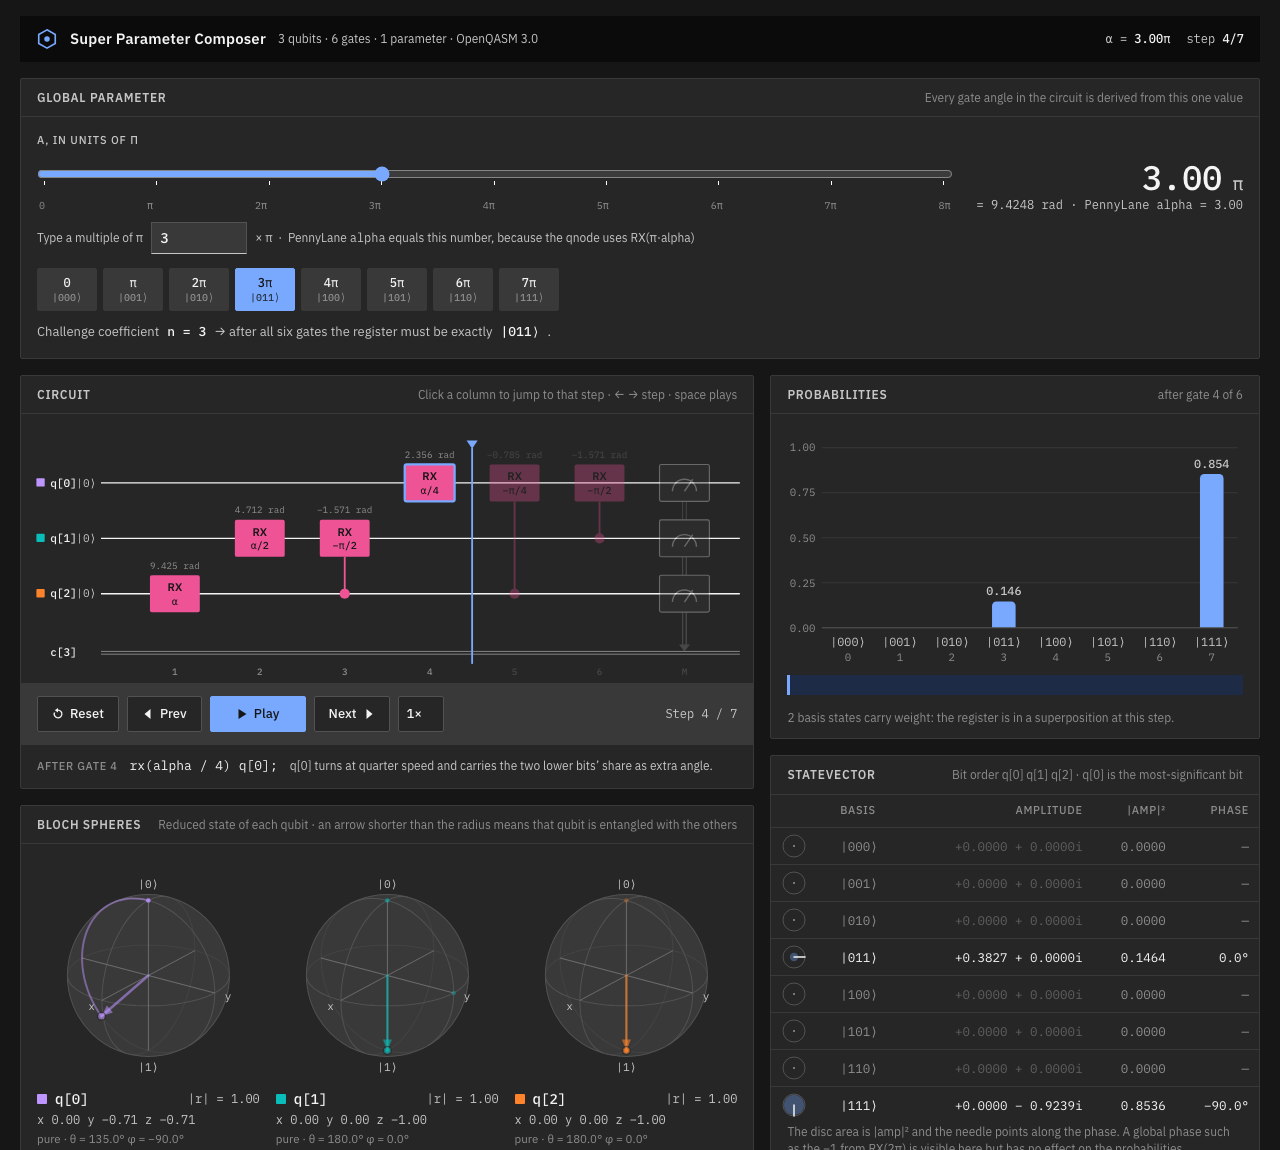
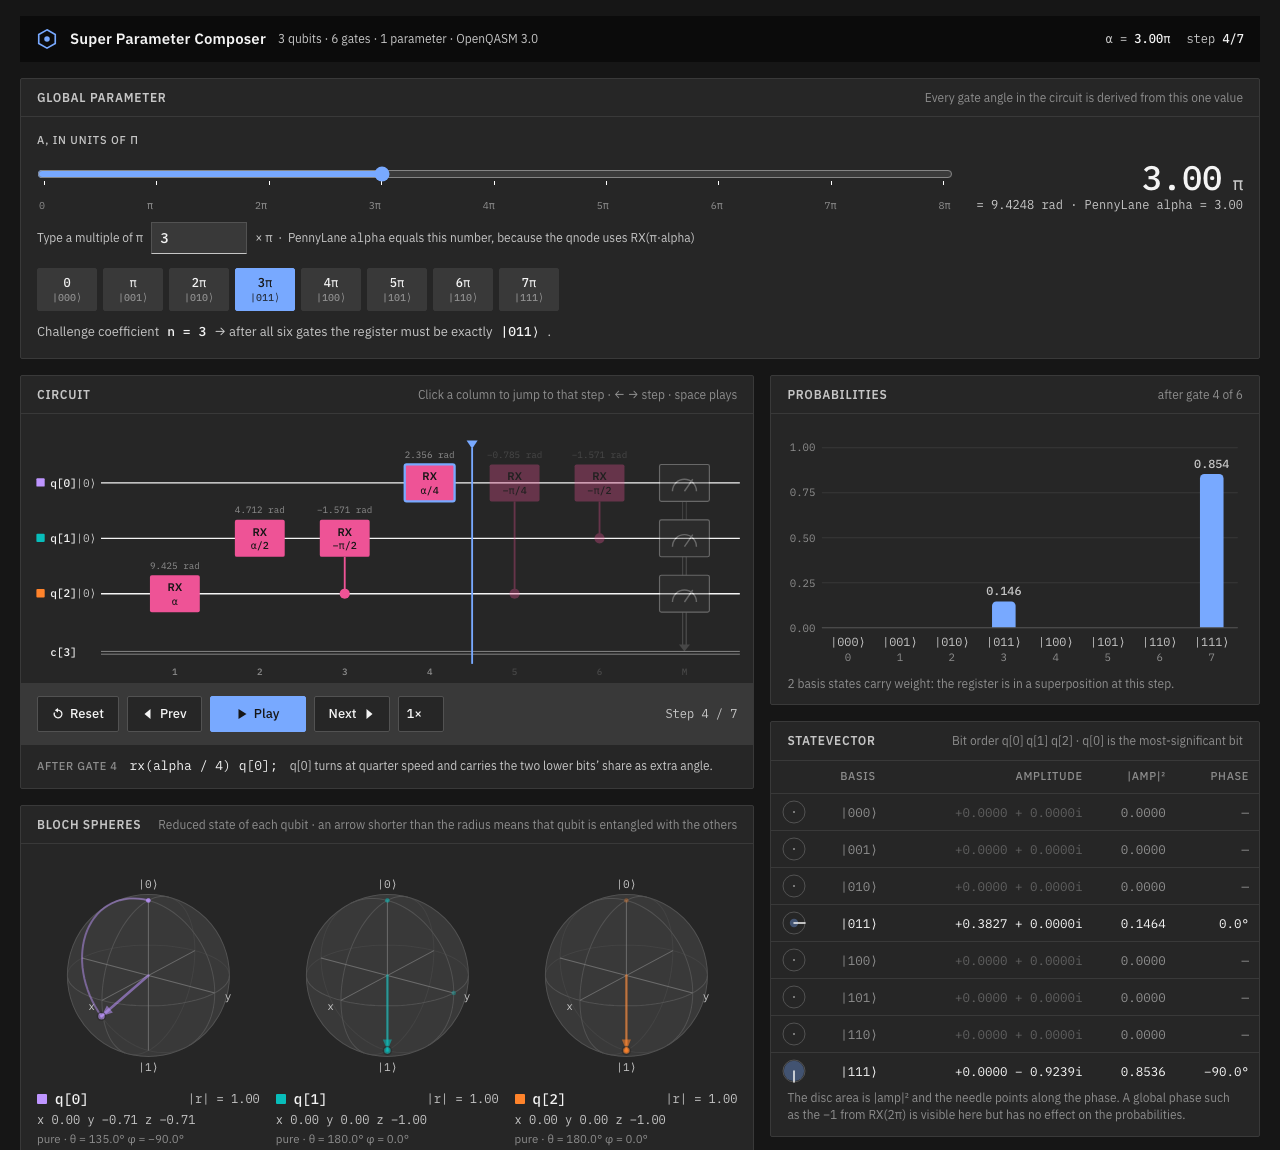
Hide [hidden] elements in the standalone simulator page
The claude.ai artifact skeleton ships this reset; the standalone build needs
its own copy or the hidden measurement banner renders as an empty strip.

Changed region(s): [[0.5938, 0.5783, 0.9688, 1.0]]

diff --git a/simulator/circuit_simulator.html b/simulator/circuit_simulator.html
@@ -40,6 +40,7 @@
   --q0:#be95ff; --q1:#08bdba; --q2:#ff832b;
 }
 *{box-sizing:border-box}
+[hidden]{display:none !important}
 body{margin:0;background:var(--bg);color:var(--ink);font-family:'IBM Plex Sans',system-ui,-apple-system,'Segoe UI',Helvetica,Arial,sans-serif;font-size:14px;line-height:1.45;padding-inline:16px;padding-block:0 40px;-webkit-font-smoothing:antialiased}
 .mono{font-family:'IBM Plex Mono',ui-monospace,SFMono-Regular,Menlo,Consolas,monospace;font-variant-numeric:tabular-nums}
 .app{max-width:1240px;margin:0 auto;display:flex;flex-direction:column;gap:16px}

diff --git a/simulator/index.html b/simulator/index.html
@@ -47,6 +47,7 @@
   --q0:#be95ff; --q1:#08bdba; --q2:#ff832b;
 }
 *{box-sizing:border-box}
+[hidden]{display:none !important}
 body{margin:0;background:var(--bg);color:var(--ink);font-family:'IBM Plex Sans',system-ui,-apple-system,'Segoe UI',Helvetica,Arial,sans-serif;font-size:14px;line-height:1.45;padding-inline:16px;padding-block:0 40px;-webkit-font-smoothing:antialiased}
 .mono{font-family:'IBM Plex Mono',ui-monospace,SFMono-Regular,Menlo,Consolas,monospace;font-variant-numeric:tabular-nums}
 .app{max-width:1240px;margin:0 auto;display:flex;flex-direction:column;gap:16px}
